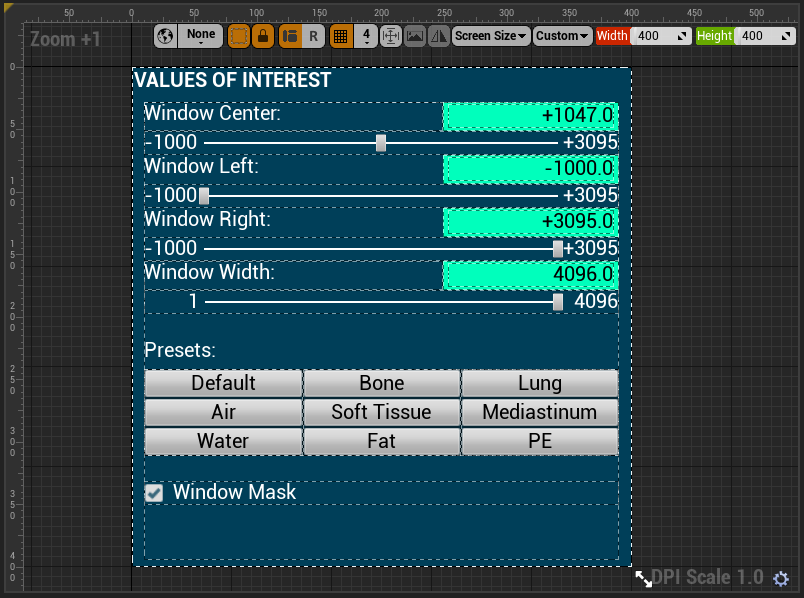
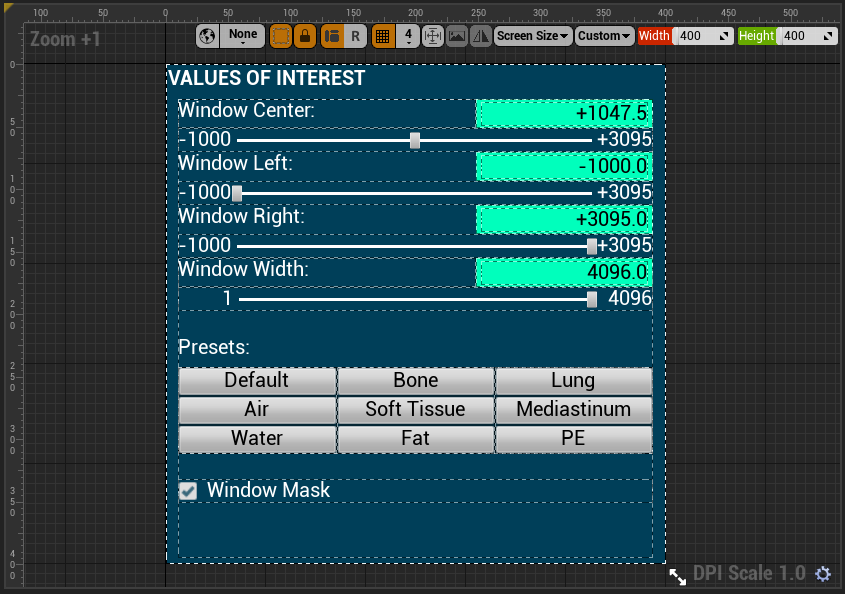
doc: update readme, VOI

diff --git a/README.md b/README.md
@@ -396,7 +396,7 @@ Parameter, Category 'Volume Creator' (see figure 'Details Panel'):
   * Info: Mandatory, Hounsfield Units data source
 * Window Center
   * Type: `Float`
-  * Default Value: `1047.0`
+  * Default Value: `1047.5`
   * Range: [`-1000.0`, `3095.0`]
   * Info: Window Center in Hounsfield Units (aka level or brightness)
 * Window Border Left
@@ -425,16 +425,16 @@ The VOI range can also be set by clicking one of the VOI range buttons (see figu
 
 *Table 4.2.1.1.: VOI Ranges*<br>
 | VOI Range Name | Left Border | Right Border | Window Center | Window Width |
-|-------------|--------:|--------:|--------:|-------:|
-| Default     | `-1000` |  `3095` |  `1047` | `4096` |
-| Air         | `-1000` | `-1000` | `-1000` |    `1` |
-| Water       |     `0` |     `0` |     `0` |    `1` |
-| Bone        |   `400` |  `1000` |   `700` |  `601` |
-| Soft Tissue |    `40` |    `80` |    `60` |   `41` |
-| Fat         |  `-100` |   `-60` |   `-80` |   `41` |
-| Lung        |  `-600` |  `-400` |  `-500` |  `201` |
-| Mediastinum |    `50` |   `500` |   `275` |  `451` |
-| PE          |   `100` |   `700` |   `400` |  `601` |
+|-------------|----------:|----------:|----------:|---------:|
+| Default     | `-1000.0` |  `3095.0` |  `1047.5` | `4096.0` |
+| Air         | `-1000.0` | `-1000.0` | `-1000.0` |    `1.0` |
+| Water       |     `0.0` |     `0.0` |     `0.0` |    `1.0` |
+| Bone        |   `400.0` |  `1000.0` |   `700.0` |  `601.0` |
+| Soft Tissue |    `40.0` |    `80.0` |    `60.0` |   `41.0` |
+| Fat         |  `-100.0` |   `-60.0` |   `-80.0` |   `41.0` |
+| Lung        |  `-600.0` |  `-400.0` |  `-500.0` |  `201.0` |
+| Mediastinum |    `50.0` |   `500.0` |   `275.0` |  `451.0` |
+| PE          |   `100.0` |   `700.0` |   `400.0` |  `601.0` |
 
 ![Level Blueprint, SpawnActor VOI Actor](Docs/BP_VOI-SpawnActor.png "Level Blueprint, SpawnActor VOI Actor")<br>*Fig. 4.2.1.2.: Level Blueprint, SpawnActor VOI Actor*
 
